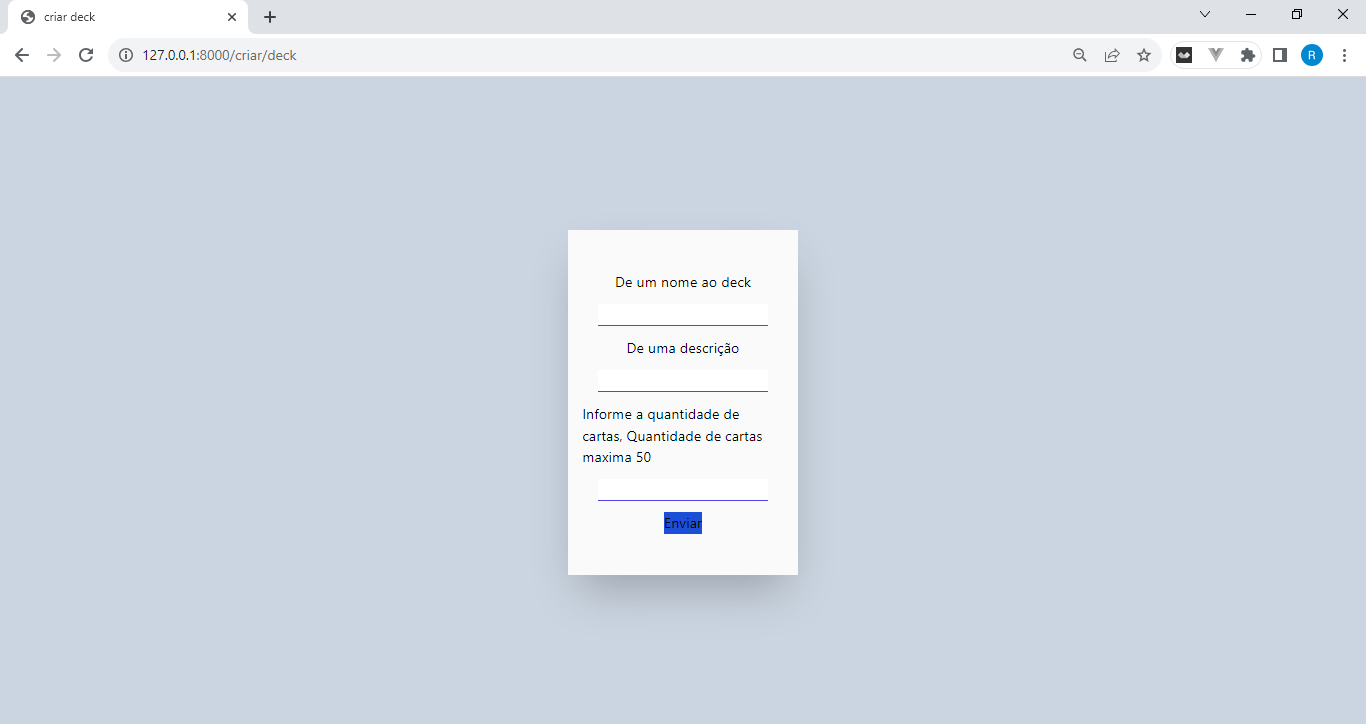
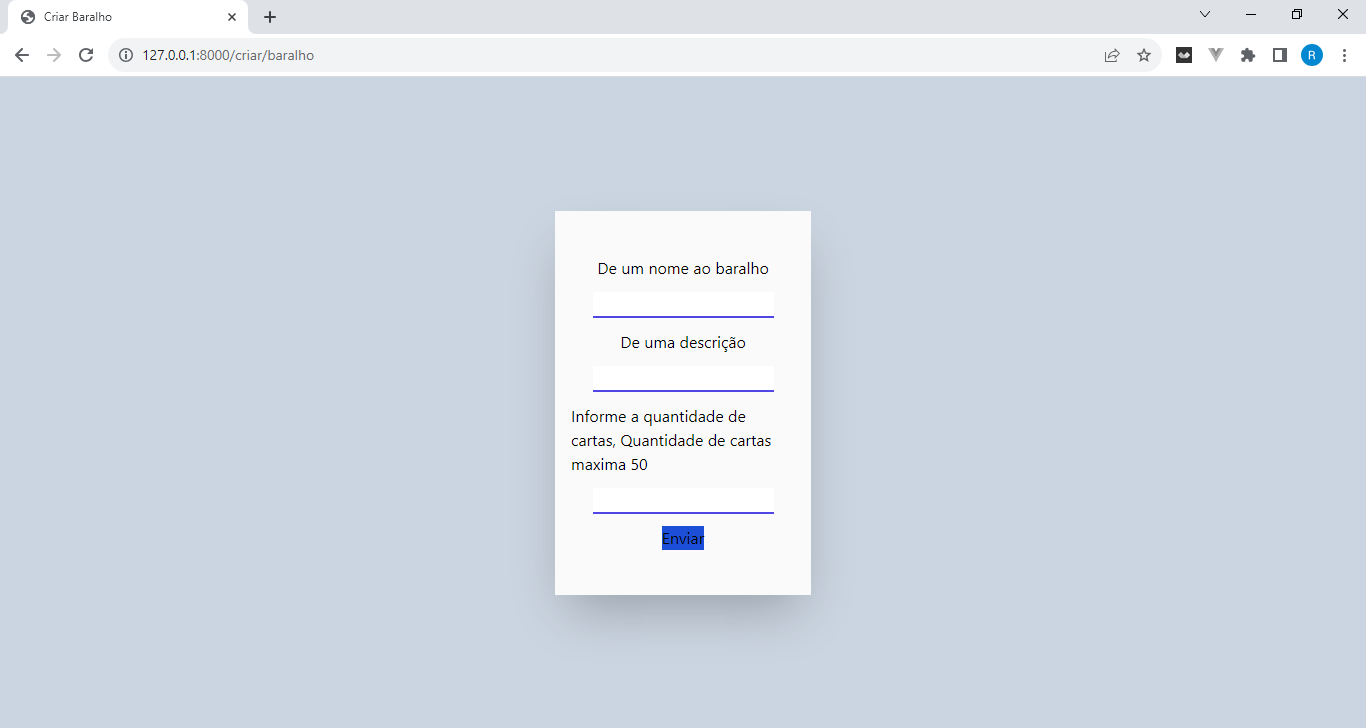
Deck Name Fix

Changed region(s): [[0.3997, 0.2735, 0.6149, 0.8204], [0.0922, 0.0608, 0.246, 0.0912], [0.0307, 0.0, 0.0922, 0.0304]]

diff --git a/routes/web.php b/routes/web.php
@@ -23,6 +23,6 @@ Route::get('/home',[DeckController::class,'index'])->name('home');
 Route::get('/',[LoginController::class,'get'])->name('login');
 Route::post('/login/usuario',[LoginController::class,'getusuario'])->name('loginusuario');
 Route::get('/jogar/{id}',[DeckController::class,'jogar'])->name('jogar');
-Route::get('/criar/deck',[DeckController::class,'create'])->name('criardeck');
-Route::post('/gerar/deck',[DeckController::class,'store'])->name('gerardeck');
-Route::delete('/deletar/deck/{id}',[DeckController::class,'destroy'])->name('deletardeck');
+Route::get('/criar/baralho',[DeckController::class,'create'])->name('criardeck');
+Route::post('/gerar/baralho',[DeckController::class,'store'])->name('gerardeck');
+Route::delete('/deletar/baralho/{id}',[DeckController::class,'destroy'])->name('deletardeck');

diff --git a/resources/views/create_deck.blade.php b/resources/views/create_deck.blade.php
@@ -3,7 +3,7 @@
 <head>
     <meta charset="UTF-8">
     <meta name="viewport" content="width=device-width, initial-scale=1.0">
-    <title>criar deck</title>
+    <title>Criar Baralho</title>
     @vite('resources/css/app.css')
 </head>
 <body>
@@ -11,7 +11,7 @@
     <div  class="flex flex-col justify-center items-center  h-96 w-64 p-4 shadow-2xl space-y-10 bg-neutral-50  ">
    <form action="{{route('gerardeck')}}" method="post" class="form">
     @csrf
-   <label for="title">De um nome ao deck</label>
+   <label for="title">De um nome ao baralho</label>
    <input type="text" name="title" class="border-b-2 border-indigo-600 my-3"></input>
    <label for="description">De uma descrição</label>
    <input type="text" name="description" class="border-b-2 border-indigo-600 my-3"></input>
